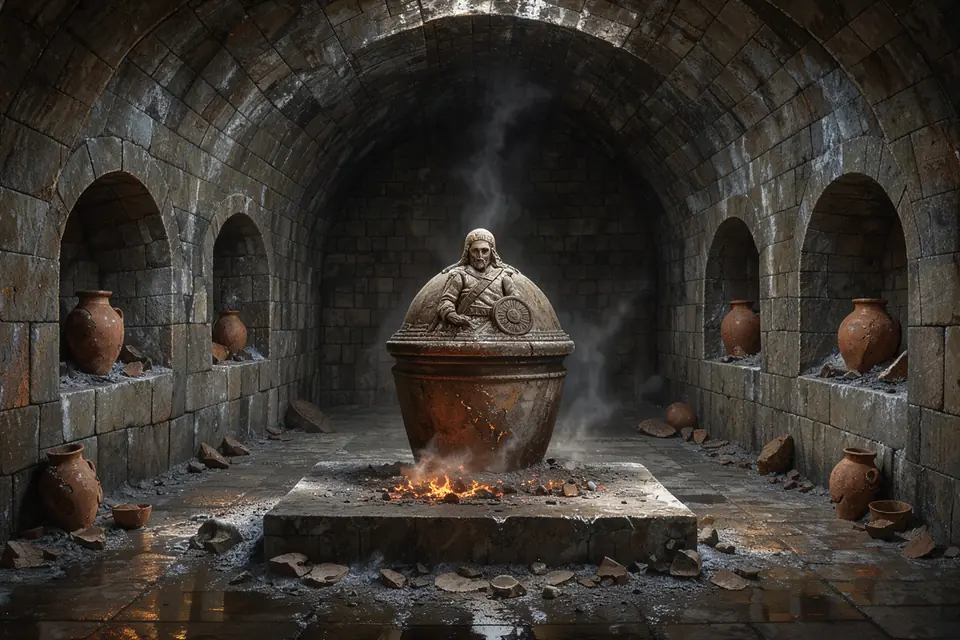
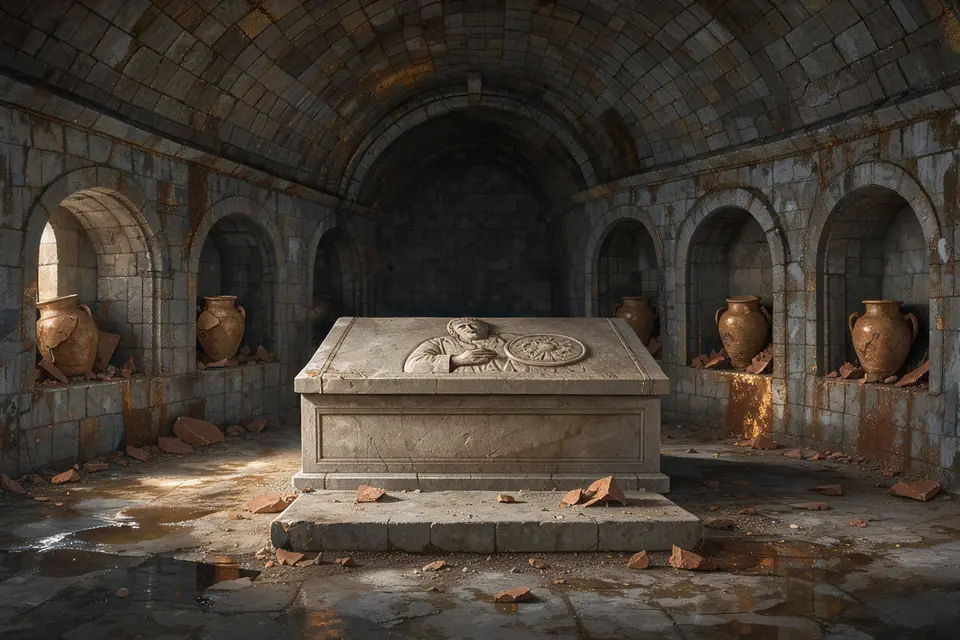
La Marche d'Ombrefiel : deux images regénérées (épée de Perrin, sarcophage du tertre)
- L'épée de Perrin est brisée net, le sarcophage est un sarcophage de grès sans cuve ni feu,
  par retouche du texte des deux éléments dans images.json (≈ 0,02 $).
- Images réinstallées en WebP ; entrée de JOURNAL.

diff --git a/docs/JOURNAL.md b/docs/JOURNAL.md
@@ -1797,3 +1797,4 @@ Demande de l'utilisateur : un skill pour construire les autres histoires.
 - **Fait (accord de l'utilisateur, ≈ 0,60 $)** : `pnpm images monde marche-d-ombrefiel --lieu <id> --max N --go`, lieu par lieu (FLUX Klein, ≈ 0,009 $ l'image) : **32 lieux, 14 PNJ, 21 objets** ; aucun échec ni refus de modération. Relues sur planches de contact : style de la charte respecté ; seul défaut vu : l'épée de Perrin est entière (elle devrait être brisée). Installées en WebP (`installer.py monde`, avec le Python 3.13 local qui a Pillow : `python`/`python3` du PATH renvoient « introuvable » sur cette machine) dans `packages/mondes/marche-d-ombrefiel/images/` (≈ 4 Mo) avec `manifeste.json`.
 - **Reste** : 2 cartes illustrées (carrefour, auberge), scène d'ouverture et scènes narrées (« vidéos »), voix des PNJ, musiques.
 - **Scènes narrées de la zone 1 et leurs voix (11/11/2026, validées)** : `scenes/z1-scenes.json` : « Le fer se brise » (ouverture en film, 5 plans), « La Noire-Eau » (première entrée au Vieux Pont), « Sous les sept menhirs » (première entrée dans la crypte), « La route s'ouvre » (quête de sécurité du relais terminée : fin provisoire de la première partie). Voix officielle (Gemini Flash TTS, Algieba ×1,15), `pnpm voix generer marche-d-ombrefiel --go` : **14 prises, ≈ 0,055 $** (le plafond de 0,05 $ a arrêté la 14e prise, finie ensuite pour 0,004 $), aucun échec. Reste : 2 cartes illustrées, voix des PNJ, musiques.
+- **Deux images regénérées (11/11/2026, ≈ 0,02 $)** : l'épée de Perrin (désormais brisée net) et le sarcophage du tertre (plus de cuve ni de feu : un sarcophage de grès, couvercle sculpté), via des retouches de texte dans `packages/mondes/marche-d-ombrefiel/images.json` ; réinstallées en WebP.
